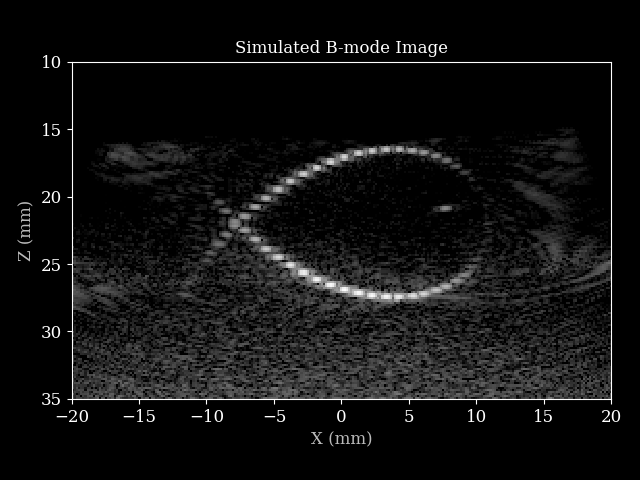
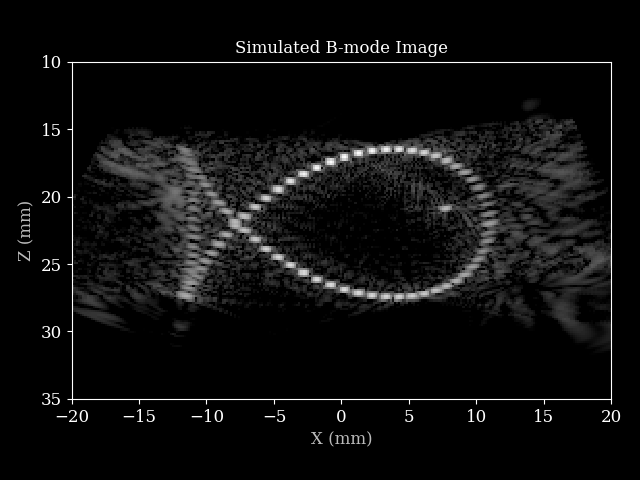
added tests for the new path

Changed region(s): [[0.0938, 0.2188, 0.9688, 0.8438]]

diff --git a/tests/test_simulator.py b/tests/test_simulator.py
@@ -30,7 +30,7 @@ DYNAMIC_RANGE = (-50.0, 0.0)
 
 
 def _parameters(probe_geometry):
-    angles = np.linspace(-5, 5, N_TX) * np.pi / 180
+    angles = np.linspace(-15, 15, N_TX) * np.pi / 180
     wavelength = SOUND_SPEED / CENTER_FREQUENCY
     return Parameters(
         n_tx=N_TX,
@@ -357,3 +357,48 @@ def test_record_length_gate_uses_worst_case_element_pair():
 
     rf = keras.ops.convert_to_numpy(simulate_rf(**args))
     assert np.abs(rf).max() == 0, "Out-of-record element pair was included; implies aliased energy."
+
+
+def _receive_chain_image(fish_scan, **receive_chain_kwargs):
+    _, simulation_args, beamform = fish_scan
+    return beamform(simulate_rf(**simulation_args, noise_seed=0, **receive_chain_kwargs))
+
+
+def test_tgc_brightens_the_deepest_scatterers(fish_scan):
+    """TGC compensates spreading loss, so the deep scatterers gain on the shallow ones."""
+    positions, _, _ = fish_scan
+    by_depth = np.argsort(positions[:, 2])
+    quartile = len(positions) // 4
+    deepest, shallowest = positions[by_depth[-quartile:]], positions[by_depth[:quartile]]
+
+    without = _receive_chain_image(fish_scan, noise_level_db=None, tgc_max_db=0.0)
+    with_tgc = _receive_chain_image(fish_scan, noise_level_db=None, tgc_max_db=50.0)
+
+    dim = _dot_brightness(without, deepest).mean()
+    bright = _dot_brightness(with_tgc, deepest).mean()
+    assert dim < bright, (
+        f"Deepest scatterers are not brighter with TGC: {dim:.1f} without, {bright:.1f} with"
+    )
+
+    # Depth ratio isolates the gain ramp from any global brightness shift.
+    without_ratio = dim / _dot_brightness(without, shallowest).mean()
+    with_ratio = bright / _dot_brightness(with_tgc, shallowest).mean()
+    assert without_ratio < 1.0 < with_ratio, (
+        f"TGC did not invert the deep/shallow brightness ratio: {without_ratio:.2f} without, "
+        f"{with_ratio:.2f} with"
+    )
+
+
+def test_noise_lowers_relative_scatterer_amplitude(fish_scan):
+    """Electronic noise lifts the background, so scatterers stand out less above the mean."""
+    positions, _, _ = fish_scan
+
+    noiseless = _receive_chain_image(fish_scan, noise_level_db=-float("inf"), tgc_max_db=50.0)
+    noisy = _receive_chain_image(fish_scan, noise_level_db=-30.0, tgc_max_db=50.0)
+
+    clean = _dot_brightness(noiseless / noiseless.mean(), positions).mean()
+    degraded = _dot_brightness(noisy / noisy.mean(), positions).mean()
+    assert degraded < clean, (
+        f"Noise did not lower the relative scatterer amplitude: {clean:.1f}x noiseless, "
+        f"{degraded:.1f}x at -30 dB"
+    )
